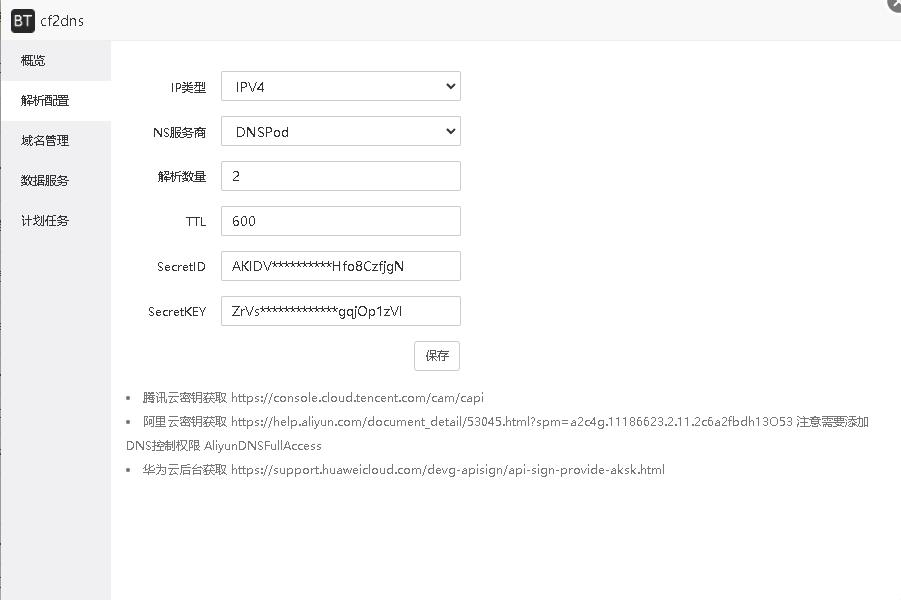
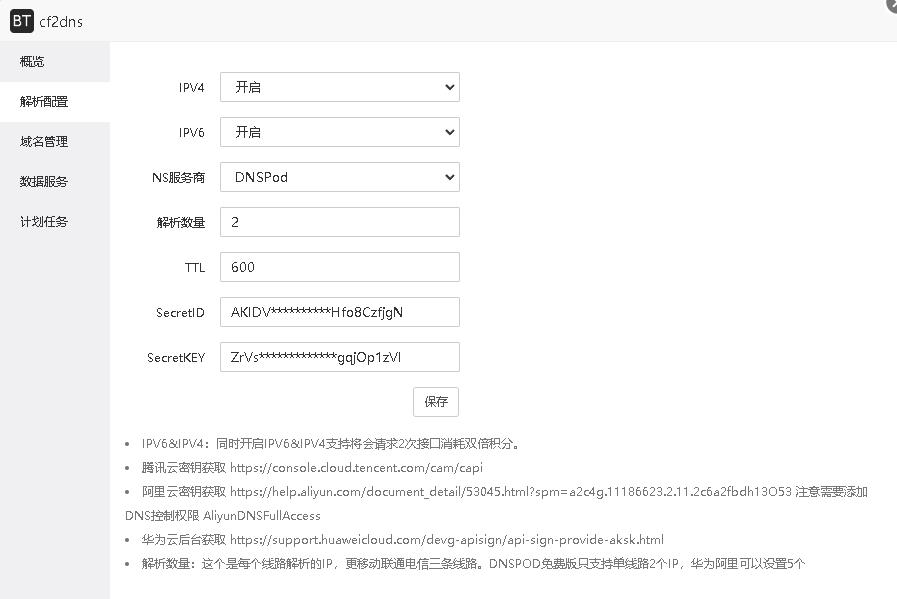
add code 20231118

diff --git a/index.html b/index.html
@@ -87,7 +87,8 @@
             cf2dns.send_request('get_home_info','get',{},(res)=>{
     			var tpl='<div class="clearfixDns">\
     					<div class="SetAggregateOne">\
-    						<p><span>IP类型</span><select class="bt-input-text" name="type" type="text" value="'+res.data.type+'"><option value="v4">IPV4</option></select></p>\
+    						<p><span>IPV4</span><select class="bt-input-text" name="ipv4" type="text" value="'+res.data.ipv4+'"><option value="on">开启</option><option value="off">关闭</option></select></p>\
+    						<p><span>IPV6</span><select class="bt-input-text" name="ipv6" type="text" value="'+res.data.ipv6+'"><option value="on">开启</option><option value="off">关闭</option></select></p>\
                             <p><span>NS服务商</span><select class="bt-input-text" name="dns_server" type="number" value="'+res.data.dns_server+'"><option value="1">DNSPod</option><option value="2">AliDNS</option><option value="3">HuaWeiDNS</option></select></p>\
     						<p><span>解析数量</span><input class="bt-input-text" name="affect_num" type="number" value="'+res.data.affect_num+'" /></p>\
     						<p><span>TTL</span><input class="bt-input-text" name="ttl" type="number" value="'+res.data.ttl+'" /></p>\
@@ -97,10 +98,11 @@
     					<p><button style="margin-left: 288px; margin-top: 15px;" class="btn btn-default btn-sm btn-title" onclick="cf2dns.set_home_info();">保存</button></p>\
     				</div>\
     				<ul class="help-info-text c7 mtb15">\
+    				    <li>IPV6&IPV4：同时开启IPV6&IPV4支持将会请求2次接口消耗双倍积分。</li>\
     					<li>腾讯云密钥获取 https://console.cloud.tencent.com/cam/capi</li>\
     					<li>阿里云密钥获取 https://help.aliyun.com/document_detail/53045.html?spm=a2c4g.11186623.2.11.2c6a2fbdh13O53  注意需要添加DNS控制权限 AliyunDNSFullAccess</li>\
     					<li>华为云后台获取 https://support.huaweicloud.com/devg-apisign/api-sign-provide-aksk.html</li>\
-    					<li>解析数量：这个是每个线路解析的IP，更移动联通电信三条线路。DNSPOD免费版只支持单线路2个IP，华为阿里设置5个</li>\
+    					<li>解析数量：这个是每个线路解析的IP，更移动联通电信三条线路。DNSPOD免费版只支持单线路2个IP，华为阿里可以设置5个</li>\
     				</ul>';
     			$(".plugin_body").html(tpl);
     			document.querySelector('.bt-input-text[name="dns_server"]').addEventListener('change', function() {
@@ -120,14 +122,15 @@
             layer.confirm('是否确认保存配置？', {
                   btn: ['确认','取消']
                 }, function(){
-                    var type = $("select[name='type']").val();
+                    var ipv4 = $("select[name='ipv4']").val();
+                    var ipv6 = $("select[name='ipv6']").val();
 			        var dns_server = $("select[name='dns_server']").val();
 			        var affect_num = $("input[name='affect_num']").val();
 			        var ttl = $("input[name='ttl']").val();
 			        var secretid = $("input[name='secretid']").val();
 			        var secretkey = $("input[name='secretkey']").val();
                     cf2dns.loading = layer.msg('保存中',{icon:16,time:100000});
-                    cf2dns.send_request('set_home_info','post',{'type':type,'dns_server':dns_server,'affect_num':affect_num,'ttl':ttl,'secretid':secretid,'secretkey':secretkey,'error':true},(res)=>{
+                    cf2dns.send_request('set_home_info','post',{'ipv4':ipv4,'ipv6':ipv6,'dns_server':dns_server,'affect_num':affect_num,'ttl':ttl,'secretid':secretid,'secretkey':secretkey,'error':true},(res)=>{
                           if(res.code==200){
                               layer.close(cf2dns.loading);
                               layer.msg('保存成功!',{icon:1,time:1500});

diff --git a/cf2dns.py b/cf2dns.py
@@ -13,7 +13,6 @@ os.chdir("/www/server/panel")
 sys.path.append("class/")
 import public
 config =  json.loads(public.readFile('plugin/cf2dns/config.json'))
-
 #CM:移动 CU:联通 CT:电信  AB:境外 DEF:默认
 #修改需要更改的dnspod域名和子域名
 DOMAINS = json.loads(public.readFile('plugin/cf2dns/domains.json'))
@@ -22,7 +21,7 @@ log_cf2dns = Logger('plugin/cf2dns/cf2dns.log', level='debug')
 def get_optimization_ip():
     try:
         headers = {'Content-Type': 'application/json'}
-        data = {"key": config["key"], "type": config["type"], "cdn_server": config["cdn_server"]}
+        data = {"key": config["key"], "type":iptype, "cdn_server": config["cdn_server"]}
         url = 'https://monitor.gacjie.cn/api/client/get_ip_address'
         if config["data_server"] == 2:
             url = 'https://api.hostmonit.com/get_optimization_ip'
@@ -38,7 +37,7 @@ def get_optimization_ip():
 
 def changeDNS(line, s_info, c_info, domain, sub_domain, cloud):
     global config
-    if config["type"] == 'v6':
+    if iptype == 'v6':
         recordType = "AAAA"
     else:
         recordType = "A"
@@ -91,7 +90,7 @@ def changeDNS(line, s_info, c_info, domain, sub_domain, cloud):
 
 def main(cloud):
     global config
-    if config["type"] == 'v6':
+    if iptype == 'v6':
         recordType = "AAAA"
     else:
         recordType = "A"
@@ -166,4 +165,9 @@ if __name__ == '__main__':
         cloud = AliApi(config["secretid"], config["secretkey"], config["region_ali"])
     elif config["dns_server"] == 3:
         cloud = HuaWeiApi(config["secretid"], config["secretkey"], config["region_hw"])
-    main(cloud)
+    if config["ipv4"] == "on":
+        iptype = "v4"
+        main(cloud)
+    if config["ipv6"] == "on":
+        iptype = "v6"
+        main(cloud)

diff --git a/cf2dns_main.py b/cf2dns_main.py
@@ -28,7 +28,8 @@ class cf2dns_main:
     #从设置解析配置信息
     def set_home_info(self, args):
         data =  json.loads(public.readFile(self.__config_path))
-        data['type'] = args.type
+        data['ipv4'] = args.ipv4
+        data['ipv6'] = args.ipv6
         data['dns_server'] = int(args.dns_server)
         # data['cdn_server'] = int(args.cdn_server)
         data['affect_num'] = int(args.affect_num)
